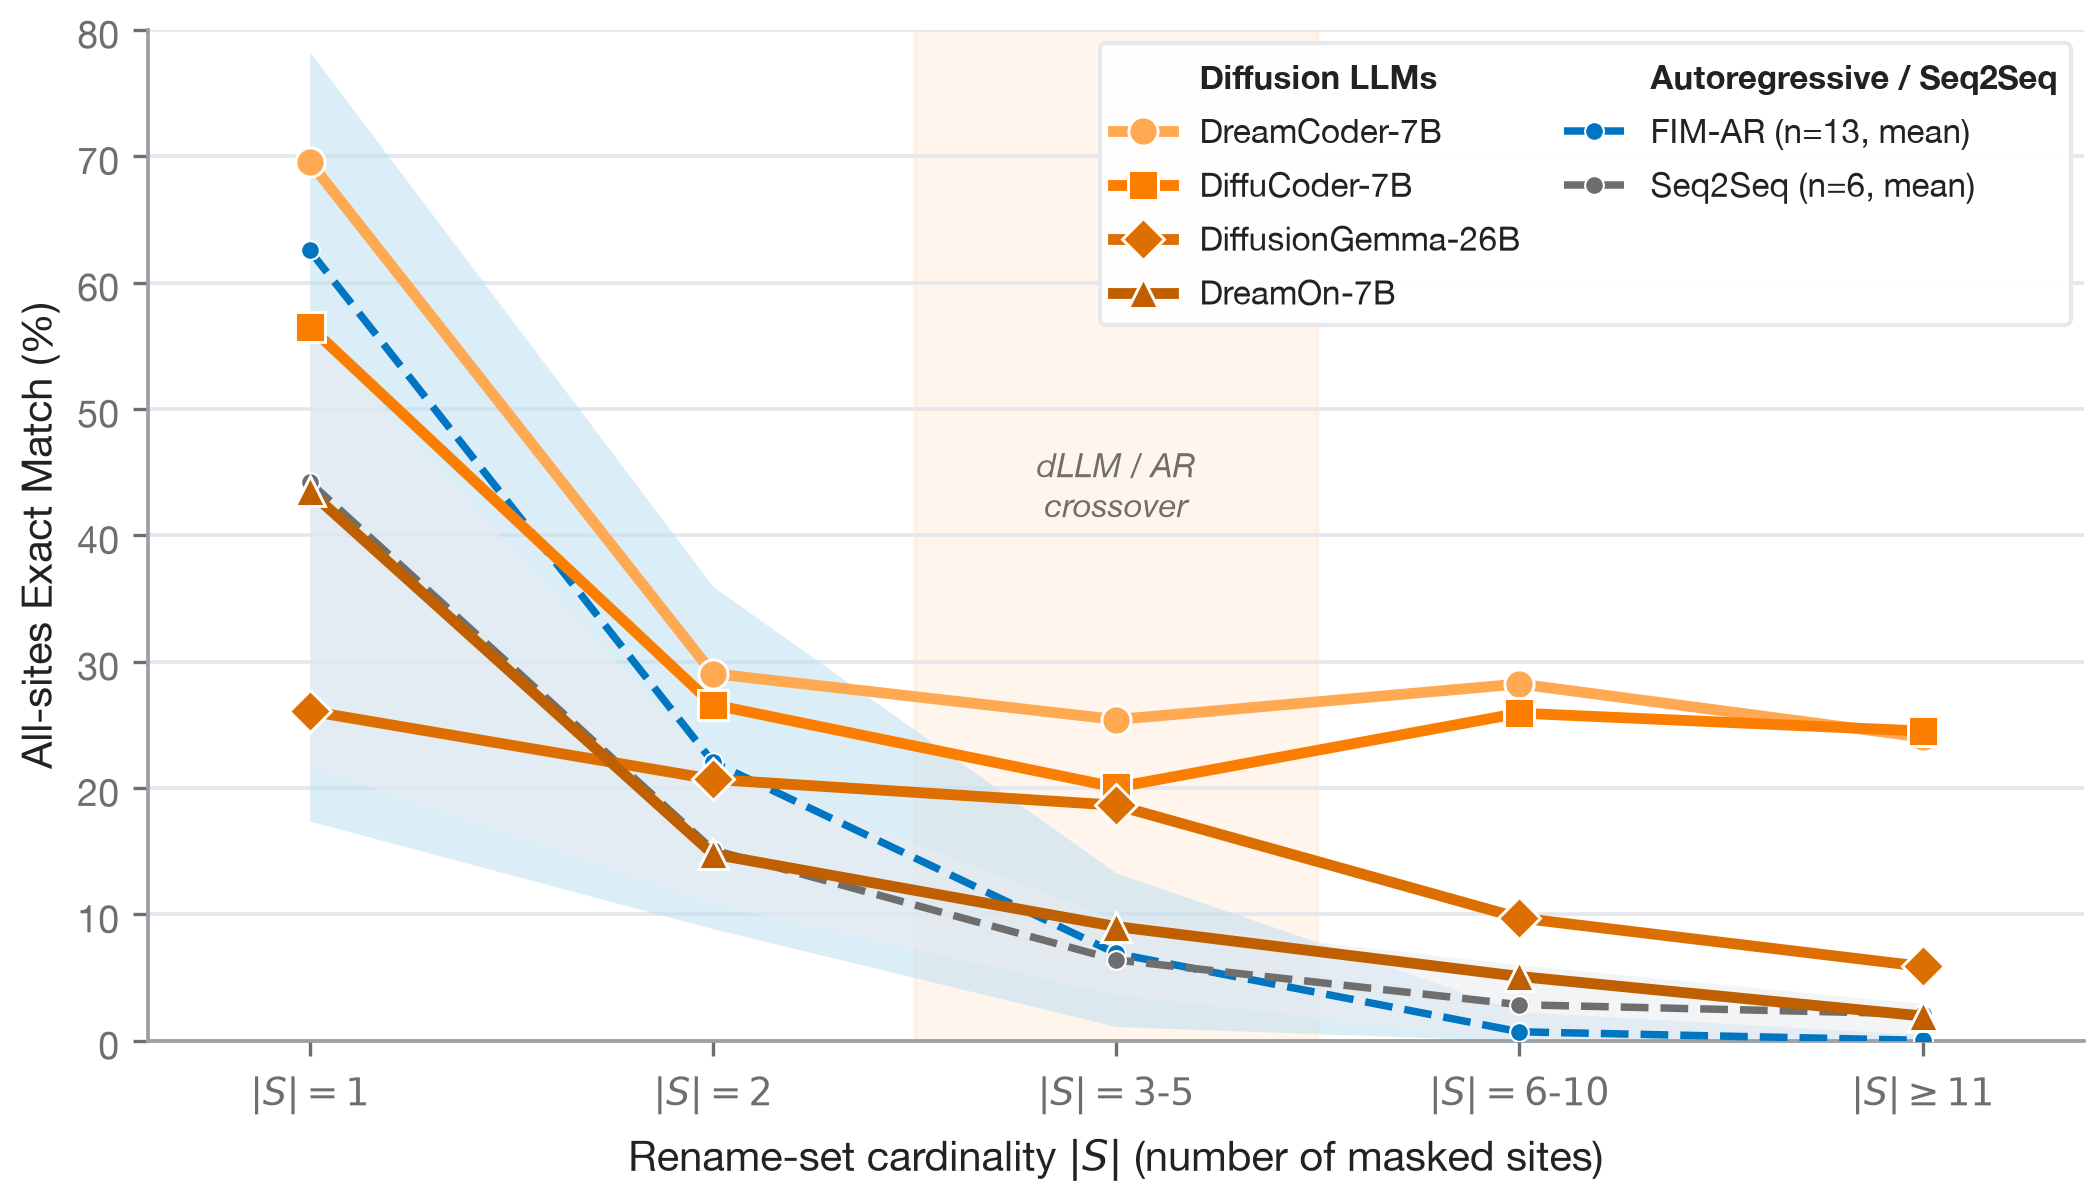
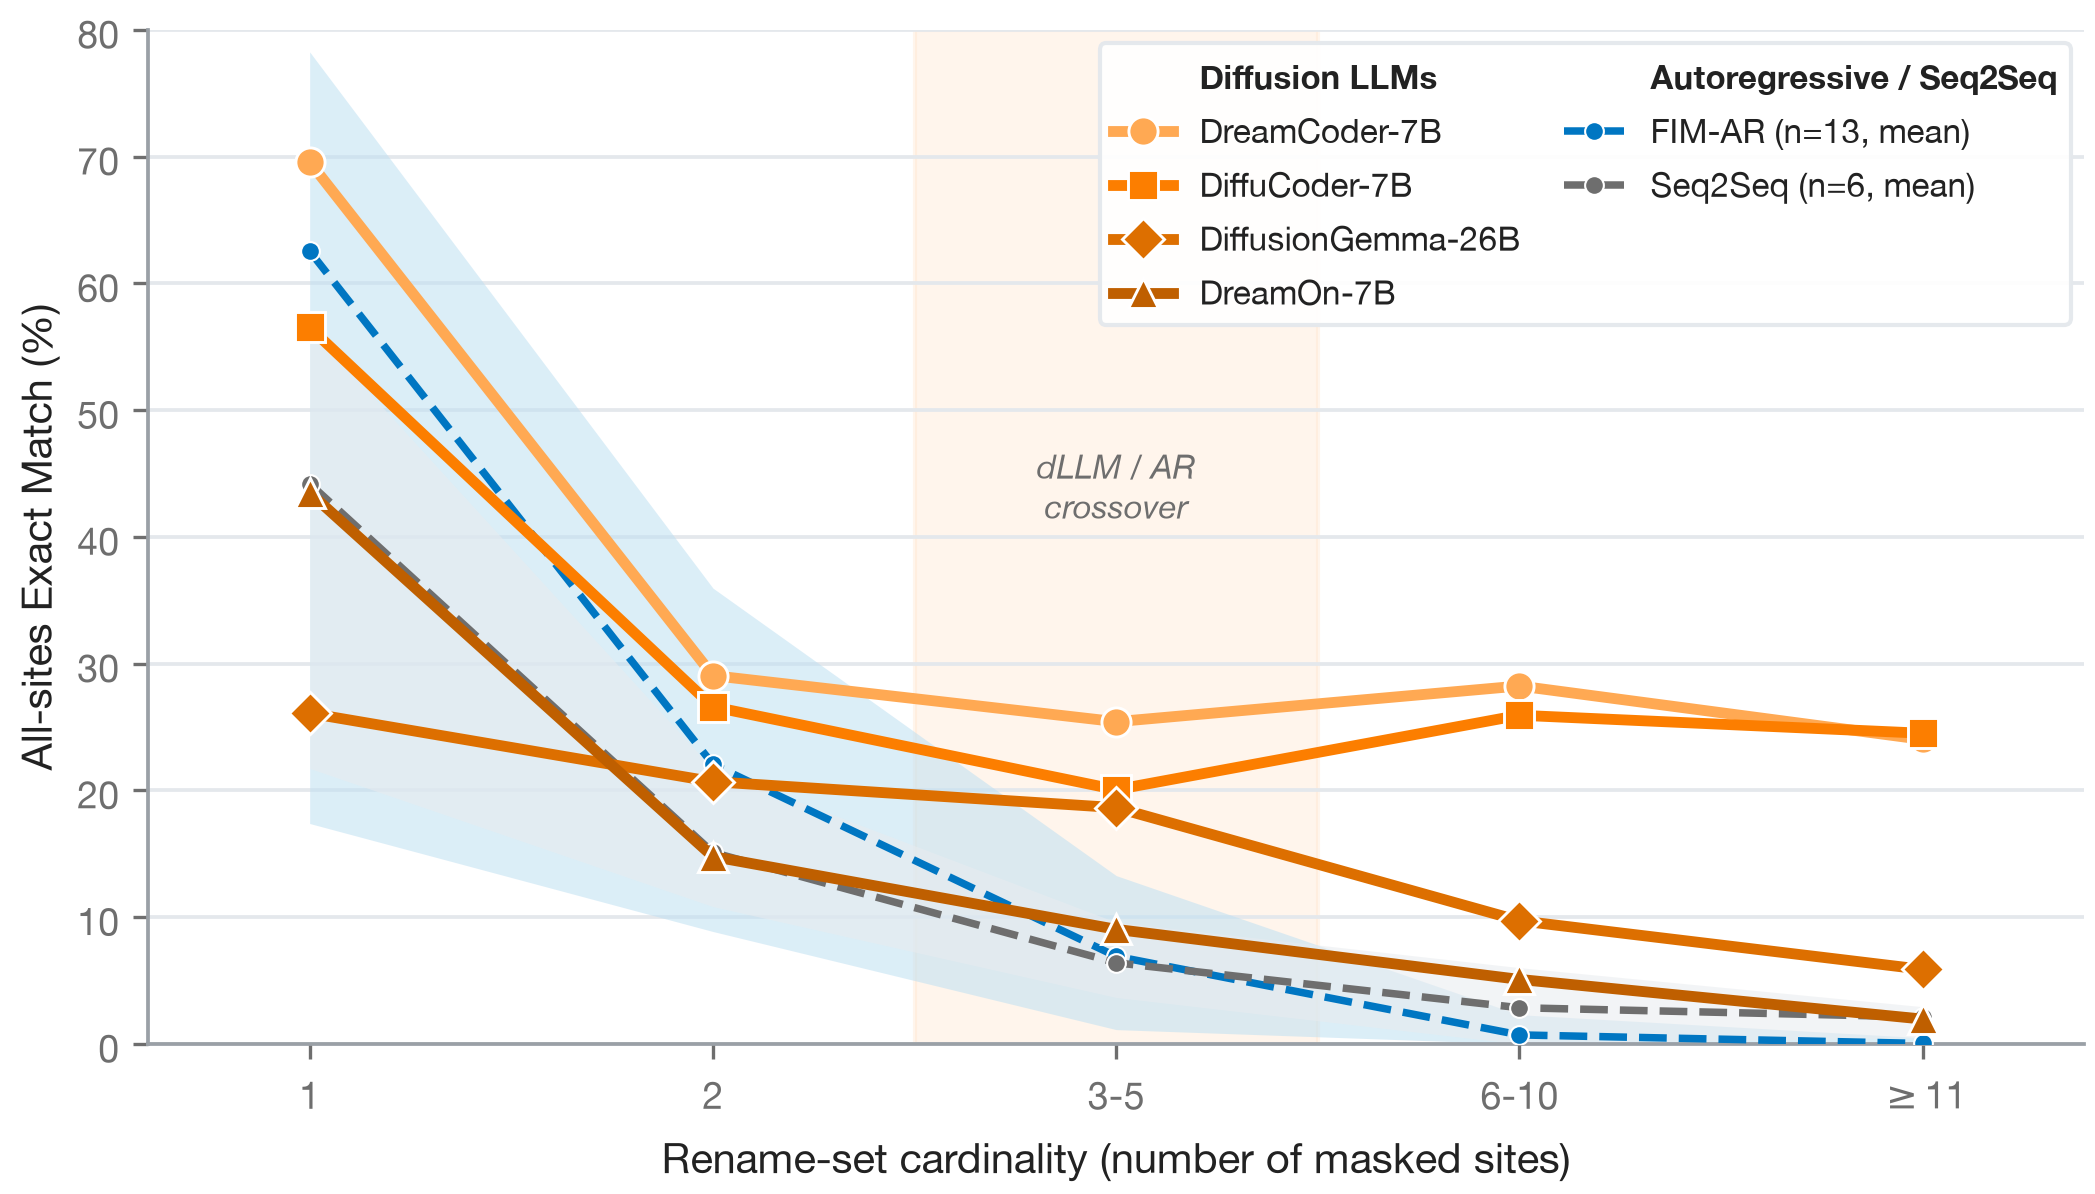
fig05: drop |S| from x-axis ticks and label

diff --git a/figures/rebuilt/fig05_em_by_cardinality.py b/figures/rebuilt/fig05_em_by_cardinality.py
@@ -35,8 +35,8 @@ CSV = os.path.join(REPO, "results", "unified_refineID", "em_by_cardinality.csv")
 
 # x buckets (must match analysis/em_by_cardinality.py BUCKETS)
 BIN_LABELS = ["|S|=1", "|S|=2", "|S|=3-5", "|S|=6-10", "|S|>=11"]
-PRETTY = {"|S|=1": "$|S|{=}1$", "|S|=2": "$|S|{=}2$", "|S|=3-5": "$|S|{=}3\\text{-}5$",
-          "|S|=6-10": "$|S|{=}6\\text{-}10$", "|S|>=11": "$|S|{\\geq}11$"}
+PRETTY = {"|S|=1": "1", "|S|=2": "2", "|S|=3-5": "3-5",
+          "|S|=6-10": "6-10", "|S|>=11": r"$\geq$11"}
 
 # The diffusion LLMs to draw as distinct lines, dark -> light (high EM -> low).
 DLLM_ORDER = ["DreamCoder-7B", "DiffuCoder-7B", "DiffusionGemma-26B-A4B", "DreamOn-7B"]
@@ -102,7 +102,7 @@ for (model, col, mk) in zip(present_dllm, oramp, DLLM_MARKERS):
 ax.set_xticks(x)
 ax.set_xticklabels([PRETTY[b] for b in BIN_LABELS])
 ax.set_xlim(-0.4, len(BIN_LABELS) - 0.6)
-ax.set_xlabel("Rename-set cardinality $|S|$ (number of masked sites)")
+ax.set_xlabel("Rename-set cardinality (number of masked sites)")
 ax.set_ylabel("All-sites Exact Match (%)")
 ax.set_ylim(0, 80)
 ax.set_yticks(np.arange(0, 81, 10))
